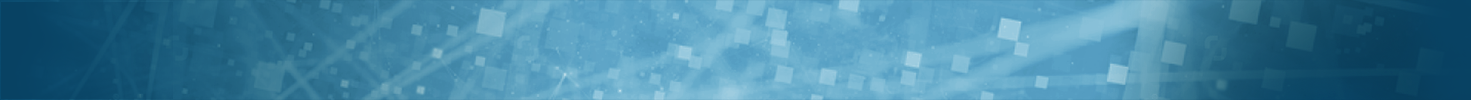
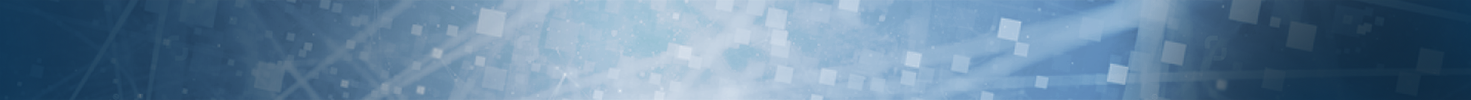
template

diff --git a/Requirements/Presentations/template/template.htm b/Requirements/Presentations/template/template.htm
@@ -1,103 +1,71 @@
 <html lang="en" xmlns="http://www.w3.org/1999/xhtml"><head>
-<meta http-equiv="content-type" content="text/html; charset=UTF-8">
+	<meta http-equiv="content-type" content="text/html; charset=UTF-8">
+	<meta http-equiv="X-UA-Compatible" content="IE=edge">
+	<meta charset="utf-8">
+	<title>Greensheets</title>
+	<script src="scripts/jquery-1.12.3.min.js"></script>
+    <script src="scripts/jquery-1.12.4.js"></script>
+	<script src="scripts/bootstrap-3.3.6.min.js"></script><!--main Bootstrap file -->
+	<script src="scripts/bootbox-4.4.0.min.js"></script> <!--for modals on GS page -- >
+	<script src="scripts/bootstrap-datepicker.js"></script> <!--for calendar on GS page -- >
+	<script src="scripts/bootstrapValidator.js"></script> <!--for validation on GS page -- >
 
-<meta http-equiv="X-UA-Compatible" content="IE=edge">
-<meta charset="utf-8">
-<title>Greensheets</title>
-<script src="scripts/jquery-1.12.3.min.js"></script>
-<script src="scripts/jquery-1.12.4.js"></script>
+	
 
-<script src="scripts/bootstrap-3.3.6.min.js"></script>
-<script src="scripts/bootbox-4.4.0.min.js"></script>
-<script src="scripts/bootstrap-datepicker.js"></script>
-<script src="scripts/bootstrapValidator.js"></script>
+	<script src="dist/chosen.jquery.js"></script> <!--for dropdown pick list on GS search pages -- >
+	
 
-<script src="scripts/jquery.validate-1.15.0.min.js"></script>
-<script src="scripts/chosen.jquery.js"></script>
-<script src="scripts/theme.js"></script>
-<script src="scripts/validator.js"></script>
+	<script src="scripts/theme.js"></script> <!--contains back to top buttton applied to all pages -- >
+	
+	<!-- all for datatables displayed on Search pages -->
+	<script src="scripts/jquery.dataTables.min.js"></script>
+	<script src="scripts/dataTables.bootstrap.min.js"></script>
 
+	<script src="scripts/alt-dtables.js"></script>
+	
+	<link href="stylesheets/font-awesome-4.6.3.min.css" rel="stylesheet" type="text/css" media="screen">
+	<link href="stylesheets/bootstrap-3.3.6.min.css" rel="stylesheet" type="text/css" media="screen"> <!--main Bootstrap CSS file -->
+	<link href="stylesheets/bootstrapValidator.css" rel="stylesheet" type="text/css" media="screen">  <!--for validation on GS page -- >
+	<link href="stylesheets/bootstrap-datepicker.css" rel="stylesheet" type="text/css" media="screen"><!--for calendar on GS page -- >
+	<link href="stylesheets/font-awesome-4.6.3.min.css" rel="stylesheet" type="text/css" media="screen"> <!-- for icons applied to all pages -->
+	<link href="https://fonts.googleapis.com/css?family=Source+Sans+Pro:400,600,600italic,700,700italic,900,900italic,400italic" rel="stylesheet" type="text/css">
+	
+	<link href="stylesheets/dataTables.bootstrap.css" rel="stylesheet" type="text/css" media="screen"> <!--applies Bootstrap style to dataTables -->
+	<link href="stylesheets/custom.css" rel="stylesheet" type="text/css" media="screen">
 
-<script src="https://cdn.datatables.net/1.10.13/js/jquery.dataTables.min.js"></script>
-<script src="https://cdn.datatables.net/1.10.13/js/dataTables.bootstrap.min.js"></script>
-<script src="scripts/dataTables.buttons.min.js"></script>
-<script src="scripts/buttons.flash.min.js"></script>
-<link href="stylesheets/buttons.dataTables.min.css" rel="stylesheet" type="text/css" media="screen">
- 
-<link href="stylesheets/buttons.jqueryui.css" rel="stylesheet" type="text/css" media="screen">
-
-<link href="stylesheets/dropzone.css" rel="stylesheet" type="text/css" media="screen">
-<link href="stylesheets/bootstrap-3.3.6.min.css" rel="stylesheet" type="text/css" media="screen">
-<link href="stylesheets/bootstrapValidator.css" rel="stylesheet" type="text/css" media="screen">
-<link href="stylesheets/bootstrap-datepicker.css" rel="stylesheet" type="text/css" media="screen">
-
-<link href="stylesheets/font-awesome-4.6.3.min.css" rel="stylesheet" type="text/css" media="screen">
-<link href="https://fonts.googleapis.com/css?family=Source+Sans+Pro:400,600,600italic,700,700italic,900,900italic,400italic" rel="stylesheet" type="text/css">
-<link href="stylesheets/dataTables.bootstrap.css" rel="stylesheet" type="text/css" media="screen">
-<link href="stylesheets/custom.css" rel="stylesheet" type="text/css" media="screen">
-
-<script src="scripts/alt-dtables.js"></script>
-<link href="stylesheets/chosen.css" rel="stylesheet" type="text/css" media="screen">
+	<link href="stylesheets/css/chosen.css" rel="stylesheet" type="text/css" media="screen"> <!--for dropdown pick list on GS search pages -- >
 </head>
-
-<body style="background-color: #fff;">
+<body>
 	<!-- Header -->
+	<div id="wrap">
+		<div class="navbar ">
+			<div class="row header">
+				<div style="height: 50px; margin-top: -1px;">
+					
+					<div id="logo" class="logoImage">
+						<img src="images/logo.png" width="275px;" alt="National Cancer Institute">
+					</div>
 
-
-
-
-<div id="wrap"> 
-	<div class="navbar ">
-		<div class="row header">
-			<div style="height: 50px; margin-top: -1px;">
-				<div id="logo" class="logoImage" style="padding-top: 5px;">
-				    <img src="images/logo.png" width="275px;" alt="National Cancer Institute">
-				    <div style="float: right; margin-right: 15px;">
-					    <br>  
-					  
-				   
-				   </div>
-				    
 				</div>
-			</div>
-			<!-- Fixed navbar -->
-      <div  style="border-bottom: 7px solid #4cb471;">
-      
+				
+				<!--Page Header -->
+				<div  style="border-bottom: 7px solid #4cb471;">
+						
+					
+				    <div class="pageHeader" id="pageHeader" ><div style="display:inline-block; margin-left: 15px;"><div class="titleWrapper mainLinks" style="margin-left: -3px; display:inline-block;"><a href="https://i2e.nci.nih.gov/workbench/WorkBench">Workbench</a>  <h3>| Greensheets</h3></div></div></div>
 
+          			<div class="welcome" style="display:inline-block; float: right; margin-right: 15px; margin-top: -32px;">
+                  		Welcome:&nbsp;
+                	<div id="loginID" class="login">Janene Nusraty</div>
 
+                	<div style="display:inline-block;"><i id="vrip" class="fa fa-book fa-1x" aria-hidden="true" alt="User Guide"></i>&nbsp; &nbsp; &nbsp;<i class="fa fa-envelope" aria-hidden="true" alt="Contact"></i></div>
 
-
-
-    
-     
-
-        <!--Page Header -->
-        
-        
+             		</div>
+             	</div><!-- end page header-->
           
-          <div class="pageHeader" id="pageHeader" ><div style="display:inline-block; margin-left: 15px;"><div class="titleWrapper mainLinks" style="margin-left: -3px; display:inline-block;"><a href="https://i2e.nci.nih.gov/workbench/WorkBench">Workbench</a>  <h3>| Greensheets</h3></div></div></div><div class="login" style="display:inline-block; float: right; margin-right: 15px; margin-top: -32px;">
-                  Welcome:
-                <div id="loginID" class="login">
-                  
-                    Janene Nusraty
-                  
-                </div><div style="display:inline-block;"><i id="vrip" class="fa fa-book fa-1x" aria-hidden="true"></i>&nbsp; &nbsp; &nbsp;<i class="fa fa-envelope" aria-hidden="true"></i></div>
-              </div>
-          
-         
-<div  class="row">
-
-
-
-
-          
-      
-    </div>
-  </div>
-  </div>
-
-
-  <!-- end Header -->
+			</div><!-- end row/header -->
+			  
+		</div><!--end nav bar-->	
 
 	
 
@@ -124,7 +92,9 @@
   <p>Lorem ipsum dolor sit amet, consectetur adipiscing elit. Morbi id urna eu velit ultricies facilisis. Aliquam erat volutpat. Vivamus vel elit posuere, mattis risus sit amet, euismod nisl. In vulputate ligula at ex scelerisque laoreet. Phasellus rutrum bibendum hendrerit. Nam at dui commodo leo luctus condimentum ac et ipsum. Maecenas nec mauris vitae tellus vehicula vehicula. Suspendisse tincidunt risus ac lacus pharetra rhoncus.Lorem ipsum dolor sit amet, consectetur adipiscing elit. Morbi id urna eu velit ultricies facilisis. Aliquam erat volutpat. Vivamus vel elit posuere, mattis risus sit amet, euismod nisl. In vulputate ligula at ex scelerisque laoreet. Phasellus rutrum bibendum hendrerit. Nam at dui commodo leo luctus condimentum ac et ipsum. Maecenas nec mauris vitae tellus vehicula vehicula. Suspendisse tincidunt risus ac lacus pharetra rhoncus.Lorem ipsum dolor sit amet, consectetur adipiscing elit. Morbi id urna eu velit ultricies facilisis. Aliquam erat volutpat. Vivamus vel elit posuere, mattis risus sit amet, euismod nisl. In vulputate ligula at ex scelerisque laoreet. Phasellus rutrum bibendum hendrerit. Nam at dui commodo leo luctus condimentum ac et ipsum. Maecenas nec mauris vitae tellus vehicula vehicula. Suspendisse tincidunt risus ac lacus pharetra rhoncus.</p>
   <p>Lorem ipsum dolor sit amet, consectetur adipiscing elit. Morbi id urna eu velit ultricies facilisis. Aliquam erat volutpat. Vivamus vel elit posuere, mattis risus sit amet, euismod nisl. In vulputate ligula at ex scelerisque laoreet. Phasellus rutrum bibendum hendrerit. Nam at dui commodo leo luctus condimentum ac et ipsum. Maecenas nec mauris vitae tellus vehicula vehicula. Suspendisse tincidunt risus ac lacus pharetra rhoncus.Lorem ipsum dolor sit amet, consectetur adipiscing elit. Morbi id urna eu velit ultricies facilisis. Aliquam erat volutpat. Vivamus vel elit posuere, mattis risus sit amet, euismod nisl. In vulputate ligula at ex scelerisque laoreet. Phasellus rutrum bibendum hendrerit. Nam at dui commodo leo luctus condimentum ac et ipsum. Maecenas nec mauris vitae tellus vehicula vehicula. Suspendisse tincidunt risus ac lacus pharetra rhoncus.Lorem ipsum dolor sit amet, consectetur adipiscing elit. Morbi id urna eu velit ultricies facilisis. Aliquam erat volutpat. Vivamus vel elit posuere, mattis risus sit amet, euismod nisl. In vulputate ligula at ex scelerisque laoreet. Phasellus rutrum bibendum hendrerit. Nam at dui commodo leo luctus condimentum ac et ipsum. Maecenas nec mauris vitae tellus vehicula vehicula. Suspendisse tincidunt risus ac lacus pharetra rhoncus.</p>
   <p>Lorem ipsum dolor sit amet, consectetur adipiscing elit. Morbi id urna eu velit ultricies facilisis. Aliquam erat volutpat. Vivamus vel elit posuere, mattis risus sit amet, euismod nisl. In vulputate ligula at ex scelerisque laoreet. Phasellus rutrum bibendum hendrerit. Nam at dui commodo leo luctus condimentum ac et ipsum. Maecenas nec mauris vitae tellus vehicula vehicula. Suspendisse tincidunt risus ac lacus pharetra rhoncus.Lorem ipsum dolor sit amet, consectetur adipiscing elit. Morbi id urna eu velit ultricies facilisis. Aliquam erat volutpat. Vivamus vel elit posuere, mattis risus sit amet, euismod nisl. In vulputate ligula at ex scelerisque laoreet. Phasellus rutrum bibendum hendrerit. Nam at dui commodo leo luctus condimentum ac et ipsum. Maecenas nec mauris vitae tellus vehicula vehicula. Suspendisse tincidunt risus ac lacus pharetra rhoncus.Lorem ipsum dolor sit amet, consectetur adipiscing elit. Morbi id urna eu velit ultricies facilisis. Aliquam erat volutpat. Vivamus vel elit posuere, mattis risus sit amet, euismod nisl. In vulputate ligula at ex scelerisque laoreet. Phasellus rutrum bibendum hendrerit. Nam at dui commodo leo luctus condimentum ac et ipsum. Maecenas nec mauris vitae tellus vehicula vehicula. Suspendisse tincidunt risus ac lacus pharetra rhoncus.Lorem ipsum dolor sit amet, consectetur adipiscing elit. Morbi id urna eu velit ultricies facilisis. Aliquam erat volutpat. Vivamus vel elit posuere, mattis risus sit amet, euismod nisl. In vulputate ligula at ex scelerisque laoreet. Phasellus rutrum bibendum hendrerit. Nam at dui commodo leo luctus condimentum ac et ipsum. Maecenas nec mauris vitae tellus vehicula vehicula. Suspendisse tincidunt risus ac lacus pharetra rhoncus.Lorem ipsum dolor sit amet, consectetur adipiscing elit. Morbi id urna eu velit ultricies facilisis. Aliquam erat volutpat. Vivamus vel elit posuere, mattis risus sit amet, euismod nisl. In vulputate ligula at ex scelerisque laoreet. Phasellus rutrum bibendum hendrerit. Nam at dui commodo leo luctus condimentum ac et ipsum. Maecenas nec mauris vitae tellus vehicula vehicula. Suspendisse tincidunt risus ac lacus pharetra rhoncus.</p>
-
+<p>Lorem ipsum dolor sit amet, consectetur adipiscing elit. Morbi id urna eu velit ultricies facilisis. Aliquam erat volutpat. Vivamus vel elit posuere, mattis risus sit amet, euismod nisl. In vulputate ligula at ex scelerisque laoreet. Phasellus rutrum bibendum hendrerit. Nam at dui commodo leo luctus condimentum ac et ipsum. Maecenas nec mauris vitae tellus vehicula vehicula. Suspendisse tincidunt risus ac lacus pharetra rhoncus.Lorem ipsum dolor sit amet, consectetur adipiscing elit. Morbi id urna eu velit ultricies facilisis. Aliquam erat volutpat. Vivamus vel elit posuere, mattis risus sit amet, euismod nisl. In vulputate ligula at ex scelerisque laoreet. Phasellus rutrum bibendum hendrerit. Nam at dui commodo leo luctus condimentum ac et ipsum. Maecenas nec mauris vitae tellus vehicula vehicula. Suspendisse tincidunt risus ac lacus pharetra rhoncus.Lorem ipsum dolor sit amet, consectetur adipiscing elit. Morbi id urna eu velit ultricies facilisis. Aliquam erat volutpat. Vivamus vel elit posuere, mattis risus sit amet, euismod nisl. In vulputate ligula at ex scelerisque laoreet. Phasellus rutrum bibendum hendrerit. Nam at dui commodo leo luctus condimentum ac et ipsum. Maecenas nec mauris vitae tellus vehicula vehicula. Suspendisse tincidunt risus ac lacus pharetra rhoncus.</p>
+  <p>Lorem ipsum dolor sit amet, consectetur adipiscing elit. Morbi id urna eu velit ultricies facilisis. Aliquam erat volutpat. Vivamus vel elit posuere, mattis risus sit amet, euismod nisl. In vulputate ligula at ex scelerisque laoreet. Phasellus rutrum bibendum hendrerit. Nam at dui commodo leo luctus condimentum ac et ipsum. Maecenas nec mauris vitae tellus vehicula vehicula. Suspendisse tincidunt risus ac lacus pharetra rhoncus.Lorem ipsum dolor sit amet, consectetur adipiscing elit. Morbi id urna eu velit ultricies facilisis. Aliquam erat volutpat. Vivamus vel elit posuere, mattis risus sit amet, euismod nisl. In vulputate ligula at ex scelerisque laoreet. Phasellus rutrum bibendum hendrerit. Nam at dui commodo leo luctus condimentum ac et ipsum. Maecenas nec mauris vitae tellus vehicula vehicula. Suspendisse tincidunt risus ac lacus pharetra rhoncus.Lorem ipsum dolor sit amet, consectetur adipiscing elit. Morbi id urna eu velit ultricies facilisis. Aliquam erat volutpat. Vivamus vel elit posuere, mattis risus sit amet, euismod nisl. In vulputate ligula at ex scelerisque laoreet. Phasellus rutrum bibendum hendrerit. Nam at dui commodo leo luctus condimentum ac et ipsum. Maecenas nec mauris vitae tellus vehicula vehicula. Suspendisse tincidunt risus ac lacus pharetra rhoncus.</p>
+  <p>Lorem ipsum dolor sit amet, consectetur adipiscing elit. Morbi id urna eu velit ultricies facilisis. Aliquam erat volutpat. Vivamus vel elit posuere, mattis risus sit amet, euismod nisl. In vulputate ligula at ex scelerisque laoreet. Phasellus rutrum bibendum hendrerit. Nam at dui commodo leo luctus condimentum ac et ipsum. Maecenas nec mauris vitae tellus vehicula vehicula. Suspendisse tincidunt risus ac lacus pharetra rhoncus.Lorem ipsum dolor sit amet, consectetur adipiscing elit. Morbi id urna eu velit ultricies facilisis. Aliquam erat volutpat. Vivamus vel elit posuere, mattis risus sit amet, euismod nisl. In vulputate ligula at ex scelerisque laoreet. Phasellus rutrum bibendum hendrerit. Nam at dui commodo leo luctus condimentum ac et ipsum. Maecenas nec mauris vitae tellus vehicula vehicula. Suspendisse tincidunt risus ac lacus pharetra rhoncus.Lorem ipsum dolor sit amet, consectetur adipiscing elit. Morbi id urna eu velit ultricies facilisis. Aliquam erat volutpat. Vivamus vel elit posuere, mattis risus sit amet, euismod nisl. In vulputate ligula at ex scelerisque laoreet. Phasellus rutrum bibendum hendrerit. Nam at dui commodo leo luctus condimentum ac et ipsum. Maecenas nec mauris vitae tellus vehicula vehicula. Suspendisse tincidunt risus ac lacus pharetra rhoncus.Lorem ipsum dolor sit amet, consectetur adipiscing elit. Morbi id urna eu velit ultricies facilisis. Aliquam erat volutpat. Vivamus vel elit posuere, mattis risus sit amet, euismod nisl. In vulputate ligula at ex scelerisque laoreet. Phasellus rutrum bibendum hendrerit. Nam at dui commodo leo luctus condimentum ac et ipsum. Maecenas nec mauris vitae tellus vehicula vehicula. Suspendisse tincidunt risus ac lacus pharetra rhoncus.Lorem ipsum dolor sit amet, consectetur adipiscing elit. Morbi id urna eu velit ultricies facilisis. Aliquam erat volutpat. Vivamus vel elit posuere, mattis risus sit amet, euismod nisl. In vulputate ligula at ex scelerisque laoreet. Phasellus rutrum bibendum hendrerit. Nam at dui commodo leo luctus condimentum ac et ipsum. Maecenas nec mauris vitae tellus vehicula vehicula. Suspendisse tincidunt risus ac lacus pharetra rhoncus.</p>
 
 
 <p>&nbsp;</p>

diff --git a/Requirements/Presentations/template/specialist.htm b/Requirements/Presentations/template/specialist.htm
@@ -4,74 +4,68 @@
 	<meta charset="utf-8">
 	<title>Greensheets</title>
 	<script src="scripts/jquery-1.12.3.min.js"></script>
-	<script src="scripts/jquery-1.12.4.js"></script>
-	<script src="scripts/bootstrap-3.3.6.min.js"></script>
-	<script src="scripts/bootbox-4.4.0.min.js"></script>
-	<script src="scripts/bootstrap-datepicker.js"></script>
-	<script src="scripts/bootstrapValidator.js"></script>
-	<script src="scripts/jquery.validate-1.15.0.min.js"></script>
-	<script src="scripts/chosen.jquery.js"></script>
-	<script src="scripts/theme2.js"></script>
-	<script src="specialistcontroller.js"></script>
-	<script src="validator.js"></script>
-	<script src="dropzone.js"></script>
-	<script src="https://cdn.datatables.net/1.10.13/js/jquery.dataTables.min.js"></script>
-	<script src="https://cdn.datatables.net/1.10.13/js/dataTables.bootstrap.min.js"></script>
-	<script src="scripts/dataTables.buttons.min.js"></script>
-	<script src="scripts/buttons.flash.min.js"></script>
-	<link href="stylesheets/buttons.dataTables.min.css" rel="stylesheet" type="text/css" media="screen">
+    <script src="scripts/jquery-1.12.4.js"></script>
+	<script src="scripts/bootstrap-3.3.6.min.js"></script><!--main Bootstrap file -->
+	<script src="scripts/bootbox-4.4.0.min.js"></script> <!--for modals on GS page -- >
+	<script src="scripts/bootstrap-datepicker.js"></script> <!--for calendar on GS page -- >
+	<script src="scripts/bootstrapValidator.js"></script> <!--for validation on GS page -- >
+
 	
-	<link href="stylesheets/buttons.jqueryui.css" rel="stylesheet" type="text/css" media="screen">
-	<link href="stylesheets/dropzone.css" rel="stylesheet" type="text/css" media="screen">
-	<link href="stylesheets/bootstrap-3.3.6.min.css" rel="stylesheet" type="text/css" media="screen">
-	<link href="stylesheets/bootstrapValidator.css" rel="stylesheet" type="text/css" media="screen">
-	<link href="stylesheets/bootstrap-datepicker.css" rel="stylesheet" type="text/css" media="screen">
-	<link href="stylesheets/font-awesome-4.6.3.min.css" rel="stylesheet" type="text/css" media="screen">
-	<link href="https://fonts.googleapis.com/css?family=Source+Sans+Pro:400,600,600italic,700,700italic,900,900italic,400italic" rel="stylesheet" type="text/css">
-	<link href="stylesheets/dataTables.bootstrap.css" rel="stylesheet" type="text/css" media="screen">
-	<link href="stylesheets/custom.css" rel="stylesheet" type="text/css" media="screen">
+
+	<script src="dist/chosen.jquery.js"></script> <!--for dropdown pick list on GS search pages -- >
+	
+
+	<script src="scripts/theme.js"></script> <!--contains back to top buttton applied to all pages -- >
+	
+	<!-- all for datatables displayed on Search pages -->
+	<script src="scripts/jquery.dataTables.min.js"></script>
+	<script src="scripts/dataTables.bootstrap.min.js"></script>
+
 	<script src="scripts/alt-dtables.js"></script>
-	<link href="stylesheets/chosen.css" rel="stylesheet" type="text/css" media="screen">
+	
+	<link href="stylesheets/font-awesome-4.6.3.min.css" rel="stylesheet" type="text/css" media="screen">
+	<link href="stylesheets/bootstrap-3.3.6.min.css" rel="stylesheet" type="text/css" media="screen"> <!--main Bootstrap CSS file -->
+	<link href="stylesheets/bootstrapValidator.css" rel="stylesheet" type="text/css" media="screen">  <!--for validation on GS page -- >
+	<link href="stylesheets/bootstrap-datepicker.css" rel="stylesheet" type="text/css" media="screen"><!--for calendar on GS page -- >
+	<link href="stylesheets/font-awesome-4.6.3.min.css" rel="stylesheet" type="text/css" media="screen"> <!-- for icons applied to all pages -->
+	<link href="https://fonts.googleapis.com/css?family=Source+Sans+Pro:400,600,600italic,700,700italic,900,900italic,400italic" rel="stylesheet" type="text/css">
+	
+	<link href="stylesheets/dataTables.bootstrap.css" rel="stylesheet" type="text/css" media="screen"> <!--applies Bootstrap style to dataTables -->
+	<link href="stylesheets/custom.css" rel="stylesheet" type="text/css" media="screen">
+
+	<link href="stylesheets/css/chosen.css" rel="stylesheet" type="text/css" media="screen"> <!--for dropdown pick list on GS search pages -- >
 </head>
-<body style="background-color: #fff;">
+<body>
 	<!-- Header -->
 	<div id="wrap">
 		<div class="navbar ">
 			<div class="row header">
 				<div style="height: 50px; margin-top: -1px;">
 					
-					<div id="logo" class="logoImage" style="padding-top: 5px;">
+					<div id="logo" class="logoImage">
 						<img src="images/logo.png" width="275px;" alt="National Cancer Institute">
-						
-						<div style="float: right; margin-right: 15px;">
-							<br></div>
 					</div>
 
 				</div>
-				<!-- navbar -->
-				<div  style="border-bottom: 7px solid #4cb471;">
-					
-					
-					
-					<!--Page Header -->
-					
-					
-					
-					<div class="pageHeader" id="pageHeader" ><div style="display:inline-block; margin-left: 15px;"><div class="titleWrapper mainLinks" style="margin-left: -3px; display:inline-block;"><a href="https://i2e.nci.nih.gov/workbench/WorkBench">Workbench</a>  <h3>| Greensheets</h3></div></div></div>
-
-					<div class="login" style="display:inline-block; float: right; margin-right: 15px; margin-top: -32px;">
-					Welcome:
-					<div id="loginID" class="login">Janene Nusraty</div>
-
-						<div style="display:inline-block;"><i id="vrip" class="fa fa-book fa-1x" aria-hidden="true"></i>&nbsp; &nbsp; &nbsp;<i class="fa fa-envelope" aria-hidden="true"></i></div>
-					</div><!-- end Page Header -->
-					
-				</div>	
 				
-			</div> <!--end row -->
+				<!--Page Header -->
+				<div  style="border-bottom: 7px solid #4cb471;">
+						
+					
+				    <div class="pageHeader" id="pageHeader" ><div style="display:inline-block; margin-left: 15px;"><div class="titleWrapper mainLinks" style="margin-left: -3px; display:inline-block;"><a href="https://i2e.nci.nih.gov/workbench/WorkBench">Workbench</a>  <h3>| Greensheets</h3></div></div></div>
+
+          			<div class="welcome" style="display:inline-block; float: right; margin-right: 15px; margin-top: -32px;">
+                  		Welcome:&nbsp;
+                	<div id="loginID" class="login">Janene Nusraty</div>
+
+                	<div style="display:inline-block;"><i id="vrip" class="fa fa-book fa-1x" aria-hidden="true" alt="User Guide"></i>&nbsp; &nbsp; &nbsp;<i class="fa fa-envelope" aria-hidden="true" alt="Contact"></i></div>
+
+             		</div>
+             	</div><!-- end page header-->
+          
+			</div><!-- end row/header -->
+			  
 		</div><!--end nav bar-->	
-		
-<!-- end Header -->
 <!-- Body Content start -->	
 	<div class="col-md-12">
 				<br/>

diff --git a/Requirements/Presentations/template/noAccount.htm b/Requirements/Presentations/template/noAccount.htm
@@ -23,15 +23,15 @@
 
 	<script src="scripts/alt-dtables.js"></script>
 	
-
+	<link href="stylesheets/font-awesome-4.6.3.min.css" rel="stylesheet" type="text/css" media="screen"> <!-- Font awesome source for icons appied to all pages -->
 	<link href="stylesheets/bootstrap-3.3.6.min.css" rel="stylesheet" type="text/css" media="screen"> <!--main Bootstrap CSS file -->
 	<link href="stylesheets/bootstrapValidator.css" rel="stylesheet" type="text/css" media="screen">  <!--for validation on GS page -- >
 	<link href="stylesheets/bootstrap-datepicker.css" rel="stylesheet" type="text/css" media="screen"><!--for calendar on GS page -- >
 	<link href="stylesheets/font-awesome-4.6.3.min.css" rel="stylesheet" type="text/css" media="screen"> <!-- for icons applied to all pages -->
-	<link href="https://fonts.googleapis.com/css?family=Source+Sans+Pro:400,600,600italic,700,700italic,900,900italic,400italic" rel="stylesheet" type="text/css">
+	<link href="https://fonts.googleapis.com/css?family=Source+Sans+Pro:400,600,600italic,700,700italic,900,900italic,400italic" rel="stylesheet" type="text/css"> <!-- Font source appied to all pages -->
 	
 	<link href="stylesheets/dataTables.bootstrap.css" rel="stylesheet" type="text/css" media="screen"> <!--applies Bootstrap style to dataTables -->
-	<link href="stylesheets/custom.css" rel="stylesheet" type="text/css" media="screen">
+	<link href="stylesheets/custom.css" rel="stylesheet" type="text/css" media="screen"> 
 
 	<link href="stylesheets/css/chosen.css" rel="stylesheet" type="text/css" media="screen"> <!--for dropdown pick list on GS search pages -- >
 </head>
@@ -44,35 +44,30 @@
 					
 					<div id="logo" class="logoImage">
 						<img src="images/logo.png" width="275px;" alt="National Cancer Institute">
-						
-						
 					</div>
 
 				</div>
-				<!-- navbar -->
-				<div  style="border-bottom: 7px solid #4cb471;">
-					
-					
-					
-					<!--Page Header -->
-					
-					
-					
-					<div class="pageHeader" id="pageHeader" ><div style="display:inline-block; margin-left: 15px;"><div class="titleWrapper mainLinks" style="margin-left: -3px; display:inline-block;"><a href="https://i2e.nci.nih.gov/workbench/WorkBench">Workbench</a>  <h3>| Greensheets</h3></div></div></div>
-
-					<div class="welcome">
-					Welcome:&nbsp;
-					<div id="loginID" class="login">Janene Nusraty</div>
-
-						<div style="display:inline-block;"><i id="vrip" class="fa fa-book fa-1x" aria-hidden="true"></i>&nbsp; &nbsp; &nbsp;<i class="fa fa-envelope" aria-hidden="true"></i></div>
-					</div><!-- end Page Header -->
-					
-				</div>	
 				
-			</div> <!--end row -->
+				<!--Page Header -->
+				<div  style="border-bottom: 7px solid #4cb471;">
+						
+					
+				    <div class="pageHeader" id="pageHeader" ><div style="display:inline-block; margin-left: 15px;"><div class="titleWrapper mainLinks" style="margin-left: -3px; display:inline-block;"><a href="https://i2e.nci.nih.gov/workbench/WorkBench">Workbench</a>  <h3>| Greensheets</h3></div></div></div>
+
+          			<div class="welcome" style="display:inline-block; float: right; margin-right: 15px; margin-top: -32px;">
+                  		Welcome:&nbsp;
+                	<div id="loginID" class="login">Janene Nusraty</div>
+
+                	<div style="display:inline-block;"><i id="vrip" class="fa fa-book fa-1x" aria-hidden="true" alt="User Guide"></i>&nbsp; &nbsp; &nbsp;<i class="fa fa-envelope" aria-hidden="true" alt="Contact"></i></div>
+
+             		</div>
+             	</div><!-- end page header-->
+          
+			</div><!-- end row/header -->
+			  
 		</div><!--end nav bar-->	
 		
-<!-- end Header -->
+
 			
 <!-- Body Content start -->		
 		<div class="col-md-12">
@@ -80,8 +75,8 @@
 				
 				<!--alert box -->
 				<div class="col-md-12" id="alert">
-					<div class="alert alert-warning ">
-						<span style="font-size: 18px;"><i class="fa fa-exclamation-triangle fa-lg" aria-hidden="true"></i>&nbsp;<strong>Warning!</strong> &nbsp;You are not authorized to view this page.  If you have any questions please send an e-mail to the <a href="mailto:NCI-NOW-L@LIST.NIH.GOV?subject=Greensheet Access">NOW Comments List</a></span>.<p>Reason: User smitha does not have an I2E account.  No record is found in NCI_PEOPLE_VIEW.</p>
+					<div class="alert alert-danger">
+						<span style="font-size: 18px;"><i class="fa fa-ban fa-lg" aria-hidden="true" alt="stop"></i>&nbsp;&nbsp;You are not authorized to view this page.  If you have any questions please send an e-mail to the <a href="mailto:NCI-NOW-L@LIST.NIH.GOV?subject=Greensheet Access">NOW Comments List</a></span>.<p>Reason: User smitha does not have an I2E account.  No record is found in NCI_PEOPLE_VIEW.</p>
 					</div>
 				</div>		
 				

diff --git a/Requirements/Presentations/template/stylesheets/custom.css b/Requirements/Presentations/template/stylesheets/custom.css
@@ -215,7 +215,7 @@ table {
 
 .header {
    background-image: url("../images/background-I2E-v1.png");
-   background-repeat: no-repeat;
+   background-size: cover;
    background-color: #084263;
  }
 
@@ -405,3 +405,9 @@ Pseudo ::after element
    
   
 }
+
+/********* login icons ******/
+.fa-book {
+  color: #FFF;
+}
+
